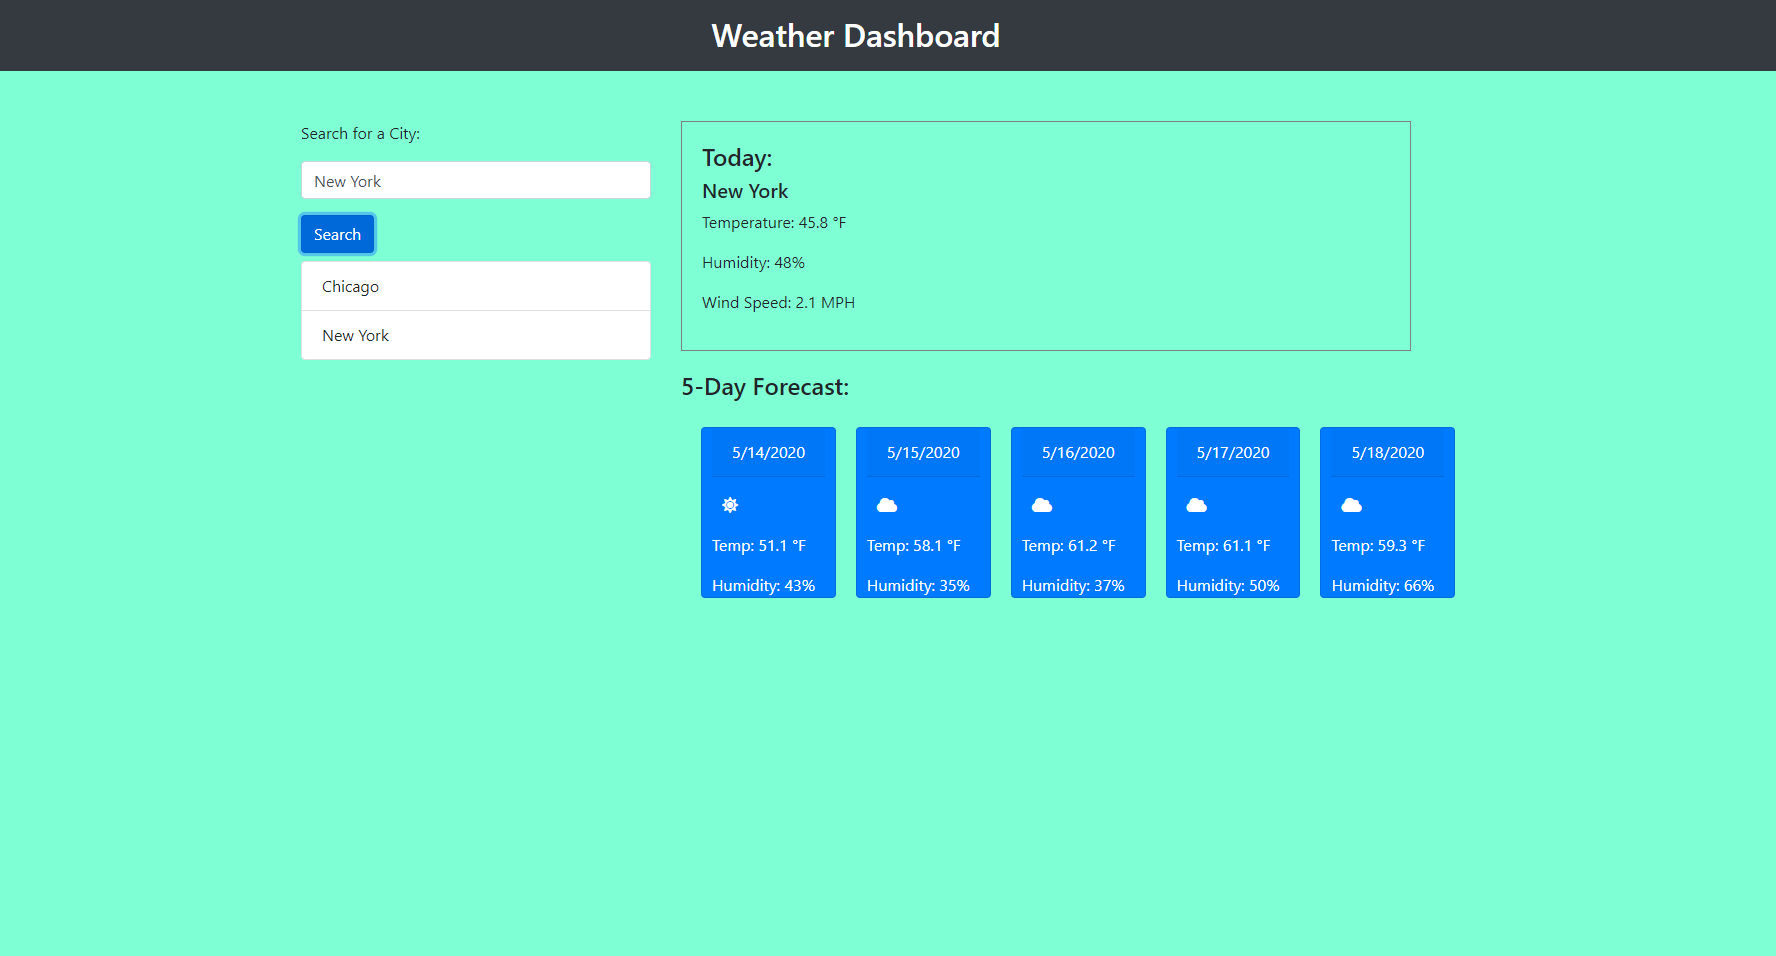
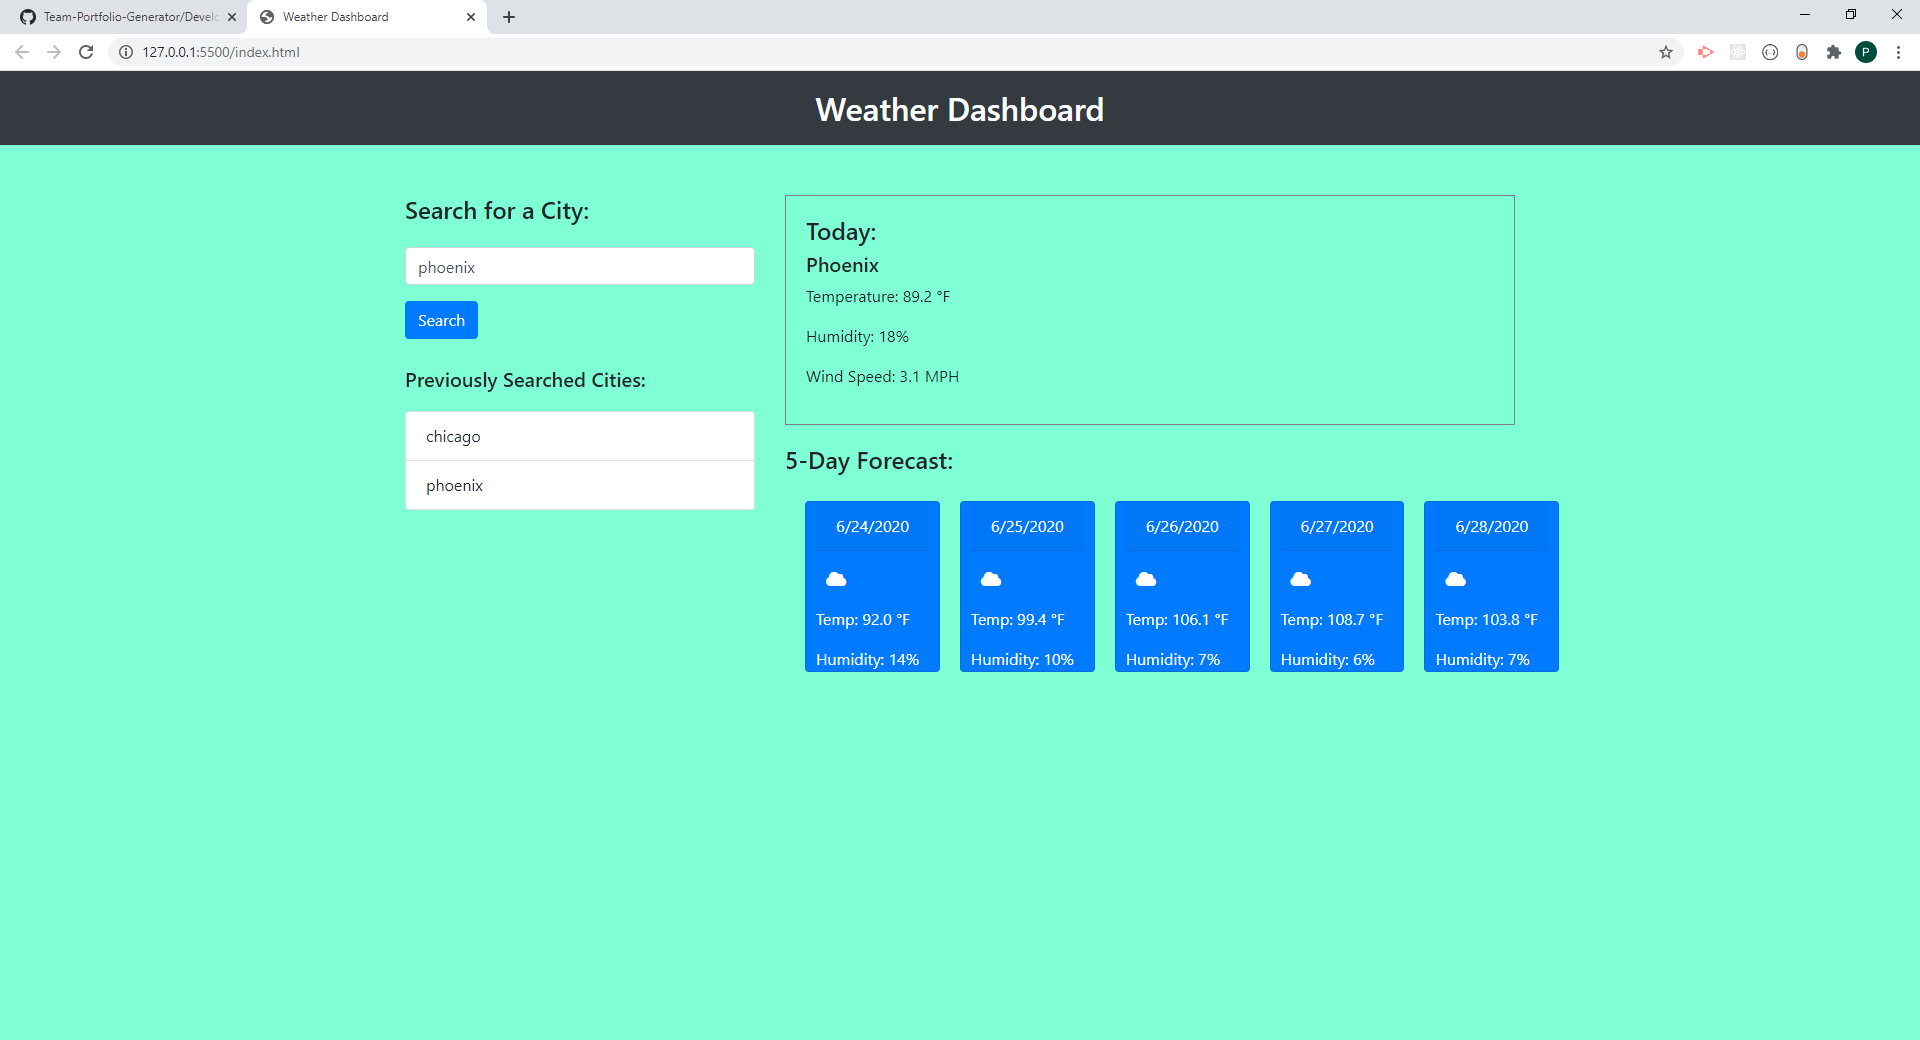
updated portfolio nav dropdown and weather dashboard information

Changed region(s): [[0.0, 0.0, 1.0, 0.6674]]

diff --git a/public/portfolio.html b/public/portfolio.html
@@ -50,8 +50,8 @@
                 To Beer</a>
               <a class="dropdown-item" href="https://pyhurst.github.io/BC_Homework_6/" target="_blank">Weather
                 Dashboard</a>
-              <a class="dropdown-item" href="https://pyhurst.github.io/digiClock/" target="_blank">Digital
-                Clock/Counter</a>
+              <a class="dropdown-item" href="http://placebk.herokuapp.com" target="_blank">Placebook</a>
+              <a class="dropdown-item" href="https://github.com/pyhurst/Employee-Tracker" target="_blank">Employee Management System</a>
             </div>
           </li>
         </ul>
@@ -123,10 +123,10 @@
           <a href="https://pyhurst.github.io/BC_Homework_6/" class="btn btn-dark" target="_blank">
             <div class="card-body">
               <h5 class="card-title">Weather Dashboard</h5>
-              <p class="card-text">Current day and 5 day forecast.</p>
+              <p class="card-text">Look up a city to find the current weather forcast and 5 day forcast. Saves previous cities searched inside browser internal storage.</p>
               <br>
               <img src="./images/weather-page.PNG" alt="Weather Page" class="page-img">
-              <p class="card-text gray">Technologies Used: HTML, CSS, JAVASCRIPT, JQUERY, BOOTSTRAP</p>
+              <p class="card-text gray">Technologies Used: HTML, CSS, JAVASCRIPT, JQUERY, BOOTSTRAP, INTERNAL STORAGE</p>
             </div>
           </a>
         </div>
@@ -145,6 +145,9 @@
         </div>
       </div> -->
     </div>
+    <footer>
+
+    </footer>
   </div>
 </body>
 

diff --git a/public/contact.html b/public/contact.html
@@ -37,7 +37,8 @@
                     <a class="dropdown-item" href="https://fierce-waters-27012.herokuapp.com/" target="_blank">Shelter Helper</a>
                     <a class="dropdown-item" href="https://pyhurst.github.io/Project_1_Brew/" target="_blank">To Beer Or Not To Beer</a>
                     <a class="dropdown-item" href="https://pyhurst.github.io/BC_Homework_6/" target="_blank">Weather Dashboard</a>
-                    <a class="dropdown-item" href="https://pyhurst.github.io/digiClock/" target="_blank">Digital Clock/Counter</a>
+                    <a class="dropdown-item" href="http://placebk.herokuapp.com" target="_blank">Placebook</a>
+                    <a class="dropdown-item" href="https://github.com/pyhurst/Employee-Tracker" target="_blank">Employee Management System</a>
                 </div>
                 </li>
             </ul>

diff --git a/public/about.html b/public/about.html
@@ -37,7 +37,8 @@
                   <a class="dropdown-item" href="https://fierce-waters-27012.herokuapp.com/" target="_blank">Shelter Helper</a>
                   <a class="dropdown-item" href="https://pyhurst.github.io/Project_1_Brew/" target="_blank">To Beer Or Not To Beer</a>
                   <a class="dropdown-item" href="https://pyhurst.github.io/BC_Homework_6/" target="_blank">Weather Dashboard</a>
-                  <a class="dropdown-item" href="https://pyhurst.github.io/digiClock/" target="_blank">Digital Clock/Counter</a>
+                  <a class="dropdown-item" href="http://placebk.herokuapp.com" target="_blank">Placebook</a>
+                  <a class="dropdown-item" href="https://github.com/pyhurst/Employee-Tracker" target="_blank">Employee Management System</a>
                 </div>
                 </li>
             </ul>
